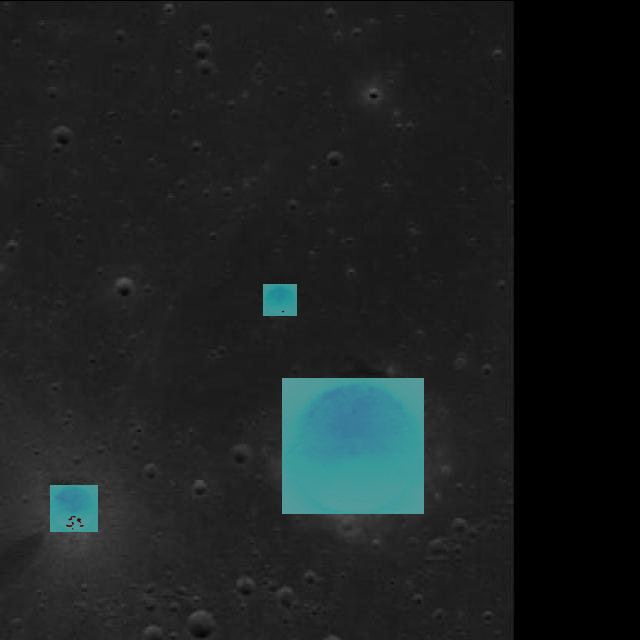
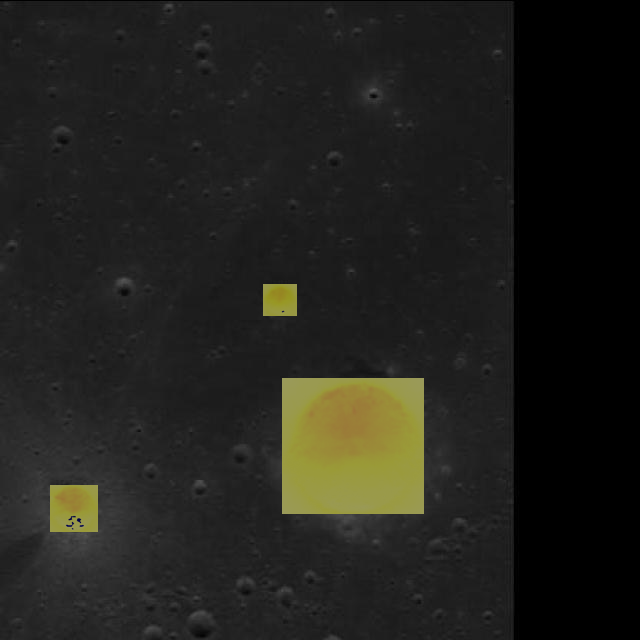
grad cam viuslaization working

Changed region(s): [[0.4375, 0.5938, 0.6875, 0.8125], [0.0625, 0.75, 0.1562, 0.8438], [0.4062, 0.4375, 0.4688, 0.5]]

diff --git a/frontend/website/src/pages/boulder/boulder.jsx b/frontend/website/src/pages/boulder/boulder.jsx
@@ -121,6 +121,11 @@ const Boulder = () => {
           gradcamImage: analysisResult.additional_files?.find(file => file.type === 'gradcam')?.path
         };
         
+        // Debug logging
+        console.log('Analysis result:', analysisResult);
+        console.log('Additional files:', analysisResult.additional_files);
+        console.log('Grad-CAM image path:', results.gradcamImage);
+        
         setAnalysisResults(results);
       } else {
         setError(analysisResult.message || 'Analysis failed');

diff --git a/frontend/website/src/pages/boulder/components/ResultsSection.jsx b/frontend/website/src/pages/boulder/components/ResultsSection.jsx
@@ -155,10 +155,13 @@ const ResultsSection = ({ analysisResults, handleProceed }) => {
                 </i>
                 Grad-CAM Visualization
               </h4>
+              {console.log('Grad-CAM image path:', analysisResults.gradcamImage)}
               <img 
                 src={`http://localhost:5000${analysisResults.gradcamImage}`}
                 alt="Grad-CAM Visualization"
                 className="w-full rounded-lg sm:rounded-xl border border-gray-600 shadow-lg"
+                onError={(e) => console.error('Grad-CAM image failed to load:', e.target.src)}
+                onLoad={() => console.log('Grad-CAM image loaded successfully')}
               />
             </div>
           </div>

diff --git a/backend/boulder_detection/main.py b/backend/boulder_detection/main.py
@@ -83,6 +83,8 @@ class BoulderDetectionController:
     def generate_gradcam(self, image_path: str, detected_objects: List[ObjectMeasurements]) -> str:
         """Generate Grad-CAM visualizations for detected objects."""
         print("🎨 Generating Grad-CAM visualizations...")
+        print(f"🔍 Image path: {image_path}")
+        print(f"🔍 Number of detected objects: {len(detected_objects)}")
         
         try:
             # Create Grad-CAM visualizations
@@ -90,16 +92,30 @@ class BoulderDetectionController:
                 image_path, detected_objects
             )
             
+            if gradcam_image is None:
+                print("❌ Grad-CAM visualization returned None")
+                return ""
+            
+            print(f"✅ Grad-CAM image created, shape: {gradcam_image.shape}")
+            
             # Save visualization
-            output_path = image_path.replace('.', '_gradcam.')
+            import os
+            base_name = os.path.splitext(image_path)[0]
+            output_path = f"{base_name}_gradcam.png"
+            print(f"🔍 Output path: {output_path}")
             import cv2
-            cv2.imwrite(output_path, gradcam_image)
+            # Convert RGB to BGR for OpenCV
+            gradcam_bgr = cv2.cvtColor(gradcam_image, cv2.COLOR_RGB2BGR)
+            success = cv2.imwrite(output_path, gradcam_bgr)
+            print(f"🔍 cv2.imwrite success: {success}")
             print(f"💾 Grad-CAM visualization saved to: {output_path}")
             
             return output_path
             
         except Exception as e:
             print(f"❌ Error generating Grad-CAM: {e}")
+            import traceback
+            traceback.print_exc()
             return ""
     
     def create_visualization(self, image_path: str, detected_objects: List[ObjectMeasurements]) -> str:
@@ -110,8 +126,11 @@ class BoulderDetectionController:
             visualization = self.detector.create_visualization(image_path, detected_objects)
             
             # Save visualization
-            output_path = image_path.replace('.', '_detected.')
+            import os
+            base_name = os.path.splitext(image_path)[0]
+            output_path = f"{base_name}_detected.png"
             import cv2
+            # The visualization is already in BGR format from the detector
             cv2.imwrite(output_path, visualization)
             print(f"💾 Detection visualization saved to: {output_path}")
             

diff --git a/backend/server/app.py b/backend/server/app.py
@@ -320,12 +320,29 @@ def analyze_boulder():
         
         if analysis_type in ['gradcam', 'full']:
             # Generate Grad-CAM
+            print(f"🔍 Generating Grad-CAM for analysis type: {analysis_type}")
             gradcam_path = boulder_controller.generate_gradcam(absolute_filepath, detected_objects)
+            print(f"🔍 Grad-CAM path returned: {gradcam_path}")
             if gradcam_path:
+                # Move/copy the Grad-CAM image to uploads folder
+                import shutil
+                uploads_dir = os.path.join(os.path.dirname(__file__), 'uploads')
+                gradcam_filename = os.path.basename(gradcam_path)
+                uploads_gradcam_path = os.path.join(uploads_dir, gradcam_filename)
+                print(f"🔍 Uploads directory: {uploads_dir}")
+                print(f"🔍 Grad-CAM filename: {gradcam_filename}")
+                print(f"🔍 Uploads Grad-CAM path: {uploads_gradcam_path}")
+                if os.path.abspath(gradcam_path) != os.path.abspath(uploads_gradcam_path):
+                    shutil.copyfile(gradcam_path, uploads_gradcam_path)
+                    print(f"✅ Grad-CAM file copied to uploads folder")
+                # Return the path as /uploads/filename for frontend
                 results["additional_files"].append({
                     "type": "gradcam",
-                    "path": gradcam_path
+                    "path": f"/uploads/{gradcam_filename}"
                 })
+                print(f"✅ Grad-CAM added to results with path: /uploads/{gradcam_filename}")
+            else:
+                print("❌ Grad-CAM generation failed - no path returned")
         
         # Always create detection visualization
         viz_path = boulder_controller.create_visualization(absolute_filepath, detected_objects)